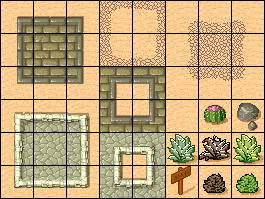
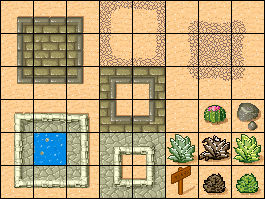
Update water tile, add gamete fertilization w/o water

Changed region(s): [[0.1208, 0.6633, 0.2717, 0.8442]]

diff --git a/painting.html b/painting.html
@@ -48,7 +48,7 @@
 
     var saveIcon;
     var saveText;
-    var rightCol = 532;
+    var rightCol = 542;
 
     //  Drawing Area
     var canvas;
@@ -63,8 +63,8 @@
     var tilelayer1 = null;
     var tilelayer2 = null;
     var gridsize = 32;
-    var tilewidth = 8;
-    var tileheight = 8;
+    var tilewidth = 16;
+    var tileheight = 16;
 
     // User-writeable constants
     var gdeathprob = 50;
@@ -299,12 +299,12 @@
                 averagespores = (((sporerange + sporerange + 1) * (sporerange + sporerange + 1)) - 1);
             }
             rangeText.text = "Spore Dispersal \nRange: " + sporerange + " blocks";
-            sporeSpawningText.text = "Average # of Spores \nper sporophyte: " + averagespores + " spores";
+            sporeSpawningText.text = "Average # of Gametophytes \nper sporophyte: " + averagespores;
         });
 
         //  Change Average # of spores per sporophyte
 
-        sporeSpawningText = game.add.text(rightCol, 300, "Average # of Spores \nper sporophyte: " + averagespores + " spores", style);
+        sporeSpawningText = game.add.text(rightCol, 300, "Average # of Gametophytes \nper sporophyte: " + averagespores, style);
 
         sporeSpawningUp = game.add.sprite(rightCol + 180, 300, 'plus');
         sporeSpawningUp.inputEnabled = true;
@@ -322,7 +322,7 @@
                 }
                 averagespores += 5;
             }
-            sporeSpawningText.text = "Average # of Spores \nper sporophyte: " + averagespores + " spores";
+            sporeSpawningText.text = "Average # of Gametophytes \nper sporophyte: " + averagespores;
         });
 
         sporeSpawningDown = game.add.sprite(rightCol + 220, 300, 'minus');
@@ -335,7 +335,7 @@
             else if (averagespores > 0) {
                 averagespores -= 5;
             }
-            sporeSpawningText.text = "Average # of Spores \nper sporophyte: " + averagespores + " spores";
+            sporeSpawningText.text = "Average # of Gametophytes \nper sporophyte: " + averagespores;
         });
 
         // Epoch Counter
@@ -484,7 +484,7 @@
             for (var xx = lowerwidth; xx < upperwidth; xx++)
             {
                 if (xx == x && yy == y) {
-                    if (Math.random() < sdeathprob) {
+                    if ((Math.random() * 100) < sdeathprob) {
                         console.log("RIP SPOROPHYTE");
                         data[yy][xx] = '.';
                         tilemap.putTile(39, x, y, tilelayer2);
@@ -566,9 +566,15 @@
                     }
                     continue;
                 }
-                var result = tilemap.getTile(xx, yy, tilelayer1, true).index;
+                var result1 = tilemap.getTile(xx, yy, tilelayer1, true).index;
+                var result2 = tilemap.getTile(xx, yy, tilelayer2, true).index;
+                /* We've found another gametophyte, so try to fertilize. If 
+                 * successful, replace ourselves with the sporophyte. */
+                if (result2 === 48 && Math.random() * 100 < zygoteprob) {
+                    tilemap.putTile(40, xx, yy, tilelayer2);
+                }
                 /* We've found water that we haven't looked in already */
-                if (result === 34 && (waterTiles.indexOf(encodeTuple(xx,yy)) === -1)) {
+                if (result1 === 34 && (waterTiles.indexOf(encodeTuple(xx,yy)) === -1)) {
                     waterTiles.push(encodeTuple(xx,yy));
                     gameteSonar(xx, yy, radius, careAboutRadius);
                 }
@@ -721,15 +727,15 @@
 
         tilelayer1 = tilemap.createLayer('Tile Layer 1');
         tilelayer1.fixedToCamera = false;
-        tilelayer1.x = 50;
-        tilelayer1.y = 330;
+        tilelayer1.x = 15;
+        tilelayer1.y = 60;
 
-        tilelayer2 = tilemap.createBlankLayer('Tile Layer 2', 8, 8, 32, 32);
+        tilelayer2 = tilemap.createBlankLayer('Tile Layer 2', 16, 16, 32, 32);
         tilelayer2.fixedToCamera = false;
-        tilelayer2.x = 50;
-        tilelayer2.y = 330;
+        tilelayer2.x = 15;
+        tilelayer2.y = 60;
 
-        turnbutton = game.add.button(500, 500, 'button', buttonActualPress, this);
+        turnbutton = game.add.button(550, 520, 'button', buttonActualPress, this);
 
         Phaser.Canvas.setUserSelect(game.canvas, 'none');
         Phaser.Canvas.setTouchAction(game.canvas, 'none');
